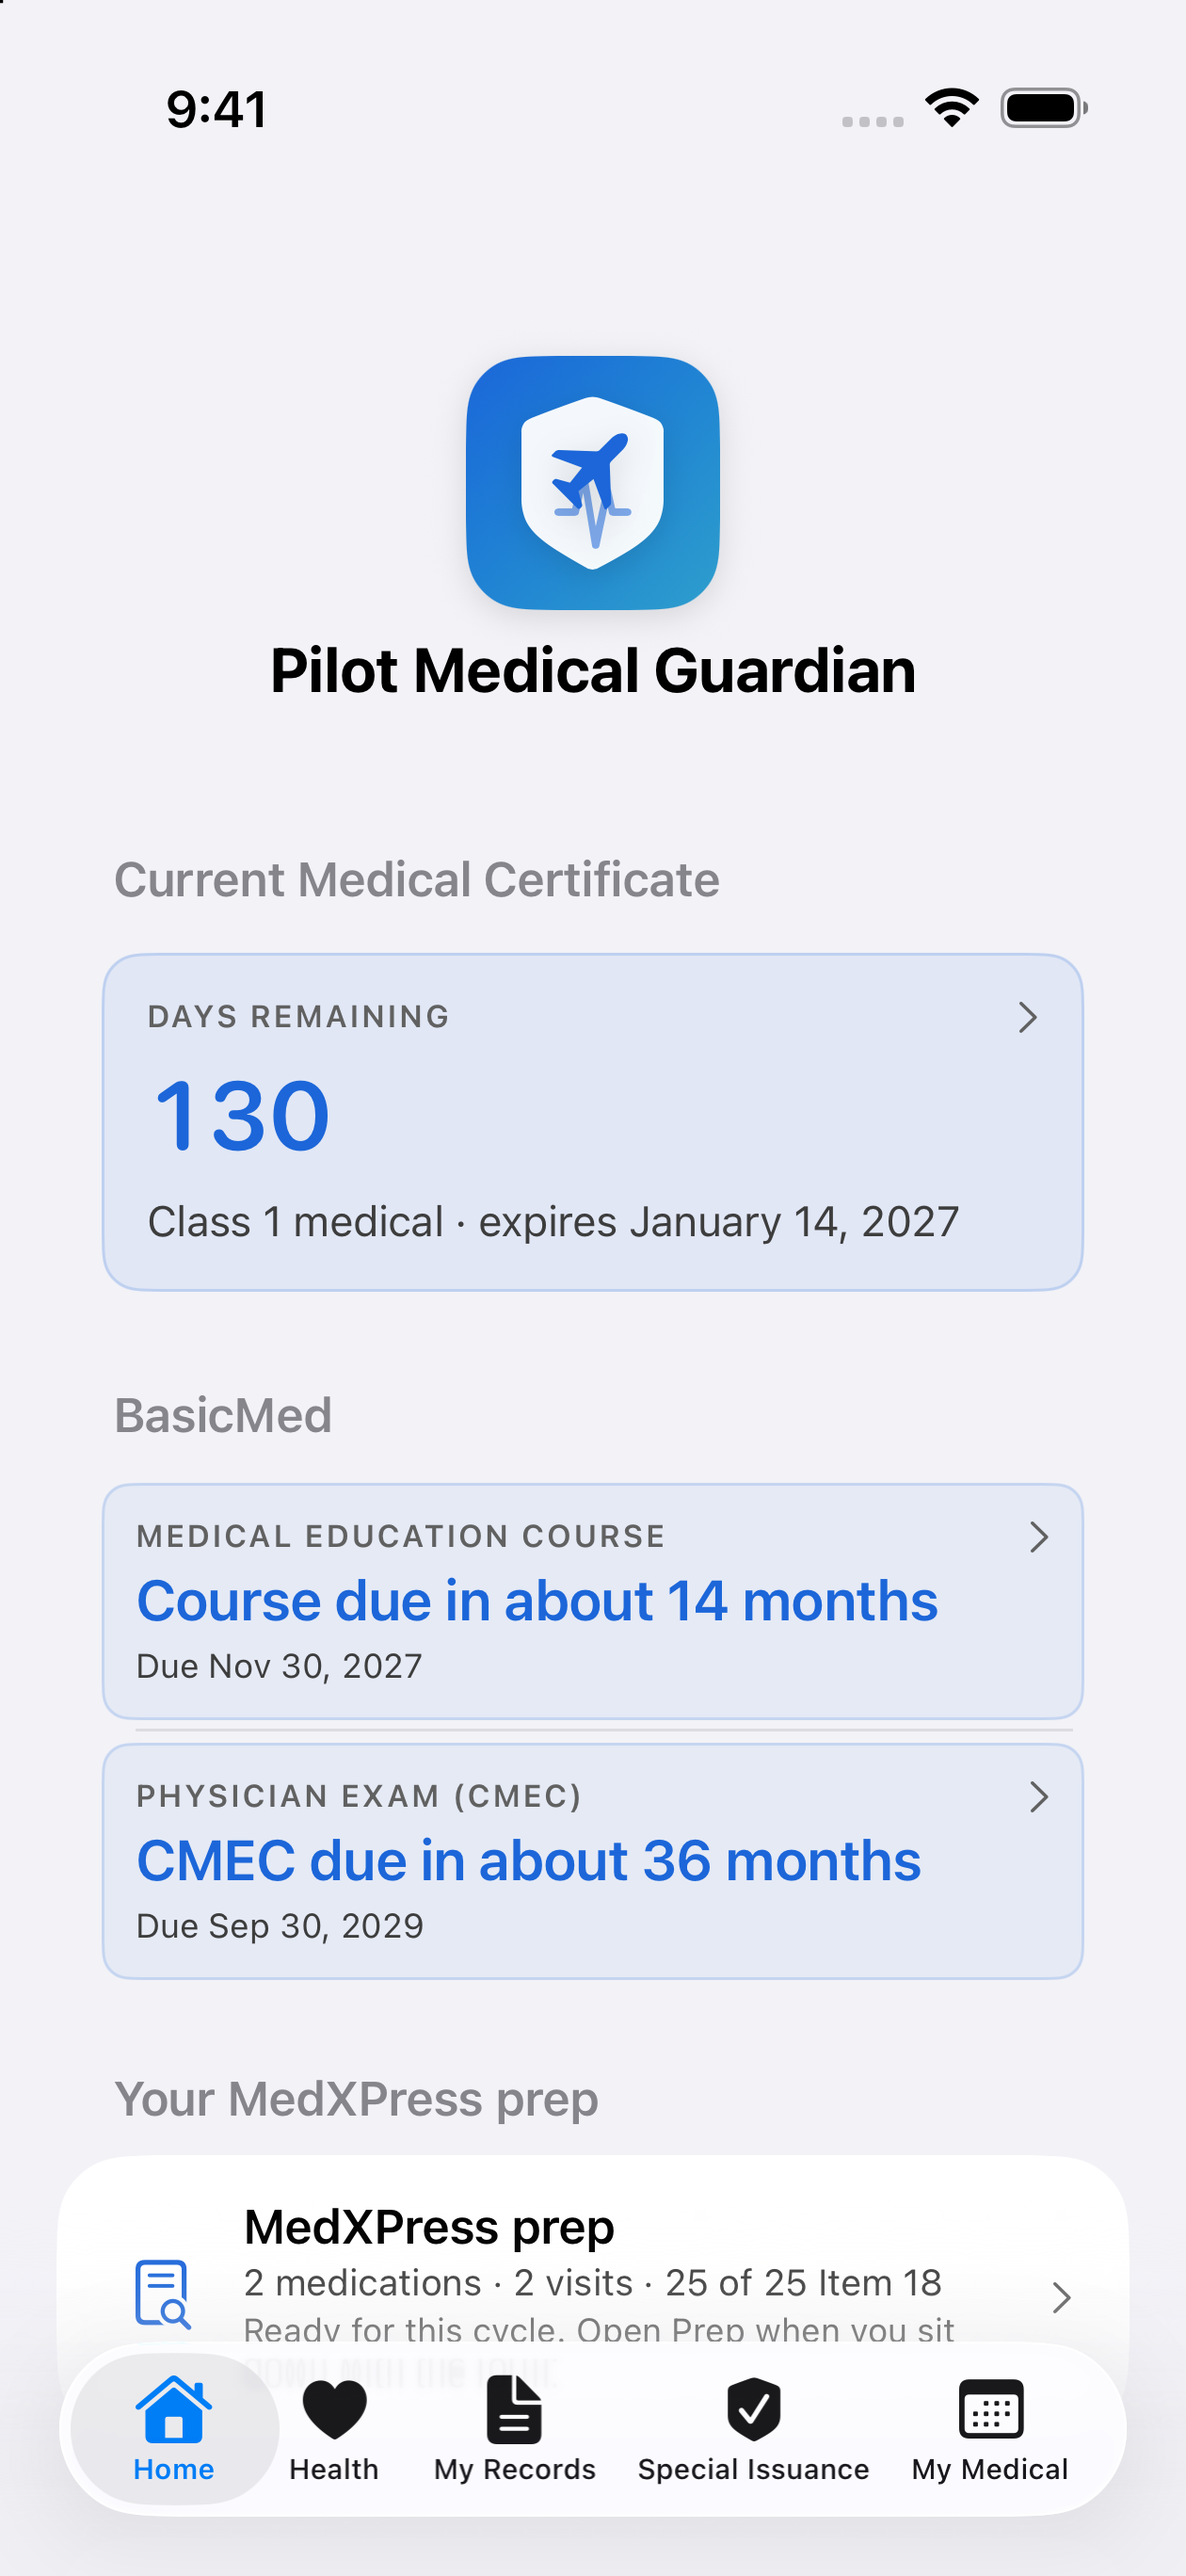
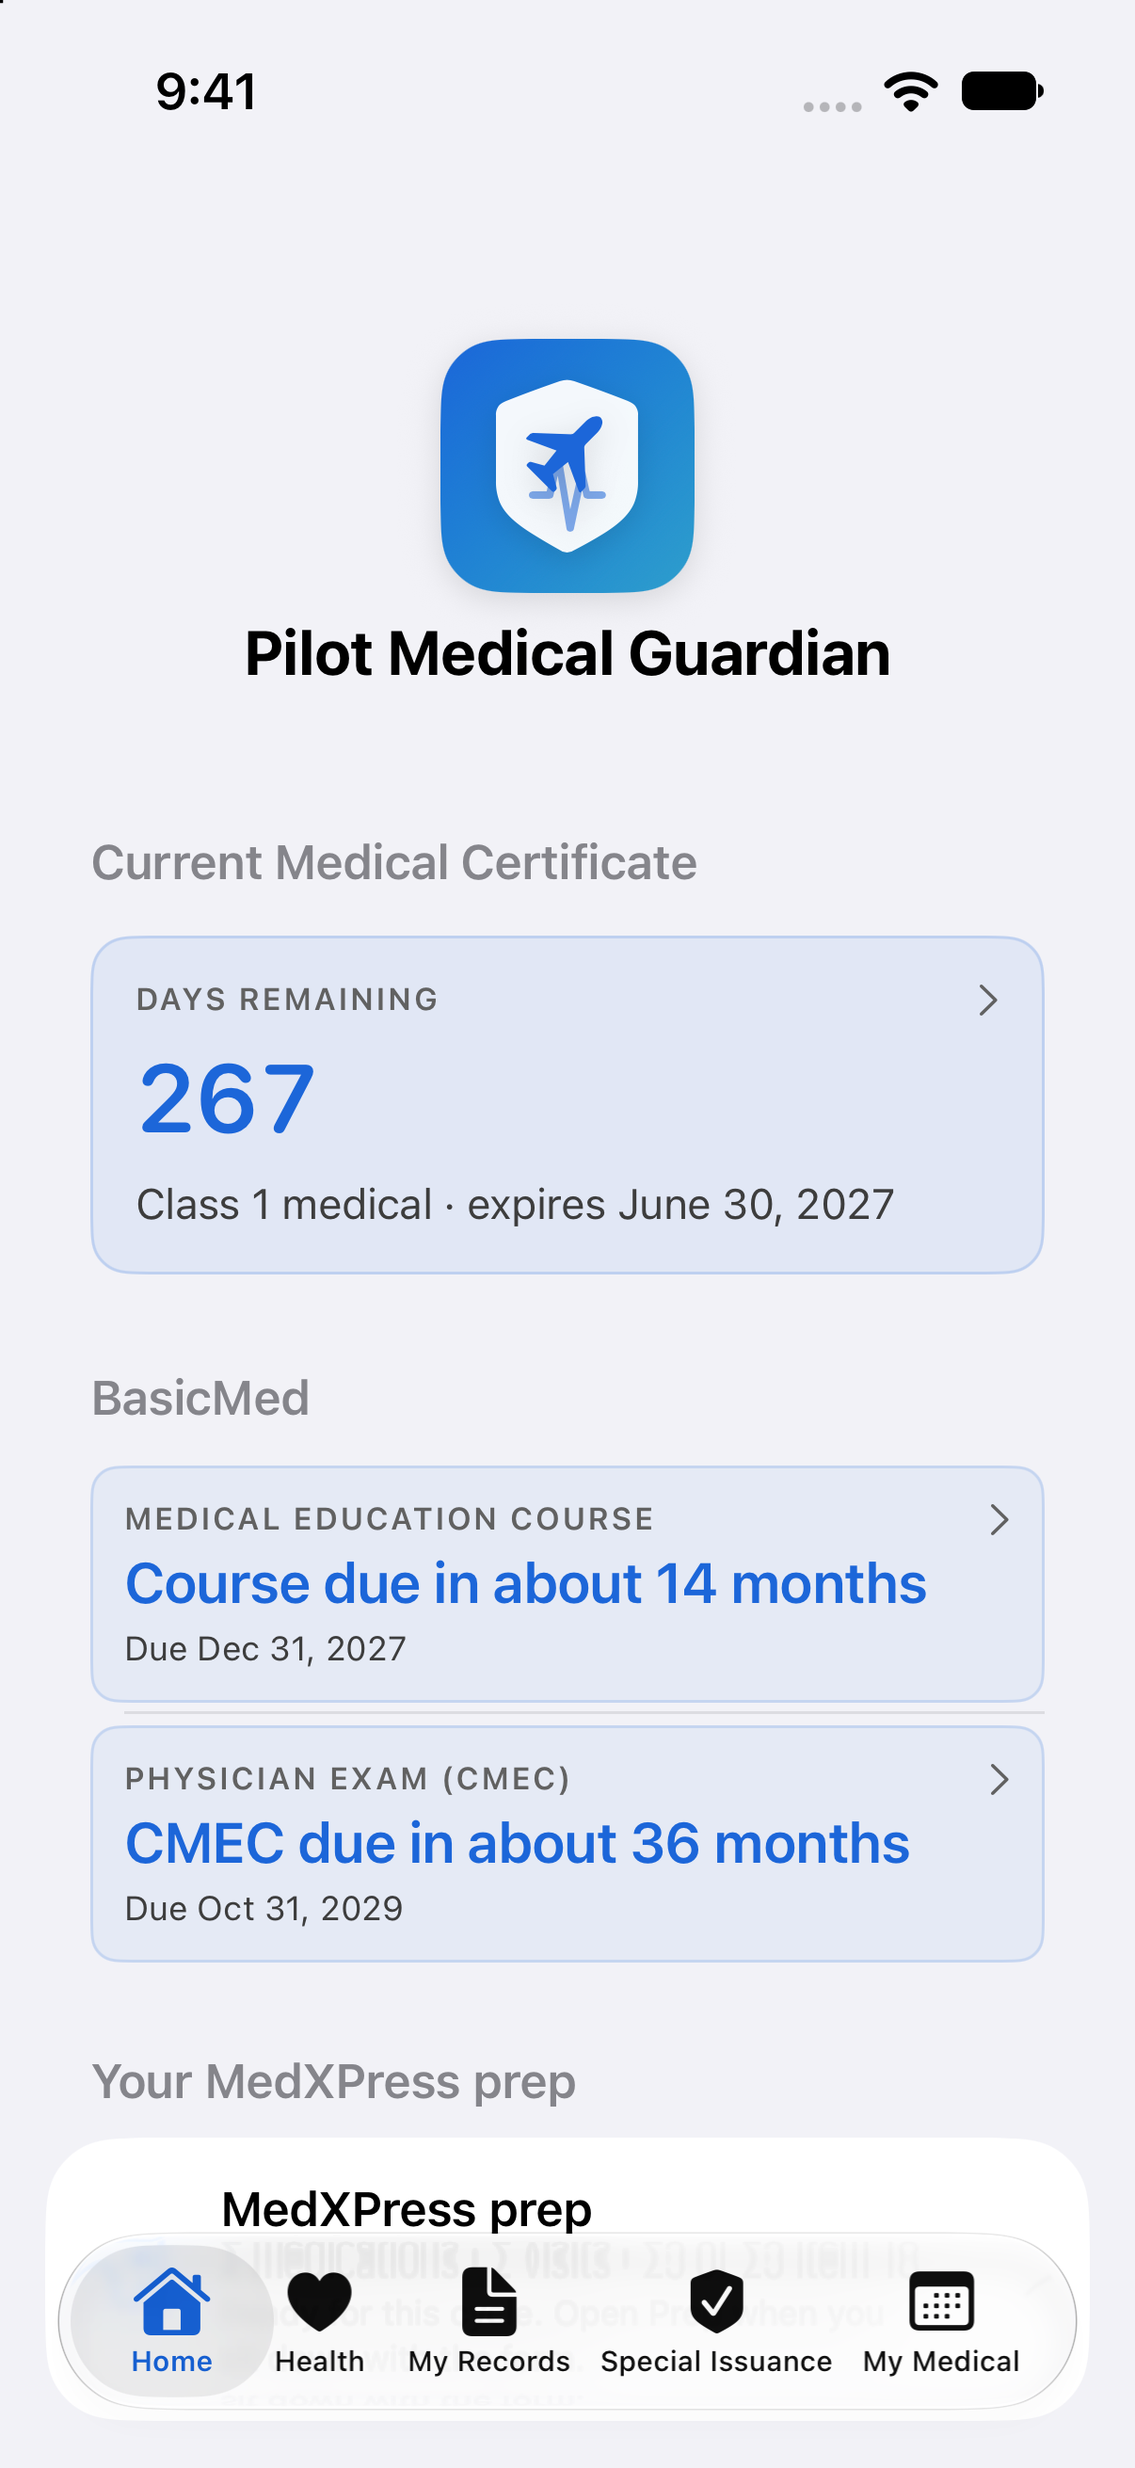
App Store header + search results asset (one universal image, Apple's 5244x2950 template, all content in its 1400x960 safe area): 267 days, Class 1 medical, expires Jun 30, 2027, one line about MedXPress; iPhone Home slot re-captured to match
Fresh iPhone 17 Pro capture 2026-10-06 with the demo certificate set to Jun 30, 2027 and the demo SI authorization moved past it (both local seeder edits, reverted). iPad and Mac Home slots still show 130 / Jan 14, 2027.

diff --git a/screenshots/asc/build-header-asset.py b/screenshots/asc/build-header-asset.py
@@ -1,0 +1,105 @@
+"""App Store product page header + search results asset (one universal image).
+
+Ryan 2026-10-06. One still on the app blue, the countdown as the picture, one marketing line.
+Canvas and safe area come from Apple's universal template
+(creative_assets-universal_asset_template-static.psd): 5244 x 2950, and the "Art Safe Area"
+layer is x 1922-3322, y 660-1620 (1400 x 960). Everything that has to be seen sits inside it;
+outside it is plain blue bleed that some placements show and some crop.
+
+Phone source: header/home-267-raw.png, a fresh iPhone 17 Pro capture (2026-10-06) with the demo
+certificate set to expire Jun 30, 2027 (267 days that day), the demo Special Issuance
+authorization moved past it (otherwise it caps the countdown and adds an SI line), and the
+pilot on the medical pathway only (no BasicMed cards). The seeder edits were local and reverted.
+The phone fades out under the MedXPress prep card so "What's next" (an SI item) never shows.
+
+Copy is exact and nothing else may be added: the number, "Days remaining", "Class 1 medical",
+"expires Jun 30, 2027", "MedXPress, filled from your own records." No price, URL, FAA approval
+or fit-to-fly wording, no second feature, no em dashes.
+"""
+from PIL import Image, ImageDraw
+import numpy as np, os
+
+
+BASE = os.path.expanduser("~/pilot-medical-guardian-content/screenshots/asc/header")
+SF = "/System/Library/Fonts/SFNS.ttf"
+W, H = 5244, 2950
+SX0, SY0, SX1, SY1 = 1922, 660, 3322, 1620          # Apple's art safe area
+BLUE = (0x1C, 0x66, 0xD9)
+WHITE = (255, 255, 255)
+
+
+def font(size, weight):
+    from PIL import ImageFont
+    f = ImageFont.truetype(SF, size)
+    vals = []
+    for a in f.get_variation_axes():
+        n = a["name"].decode() if isinstance(a["name"], bytes) else a["name"]
+        vals.append({"Weight": weight, "Optical Size": min(max(96, a["minimum"]), a["maximum"])}.get(n, a["default"]))
+    f.set_variation_by_axes(vals)
+    return f
+
+
+def phone(screen, scale):
+    """Frame a raw capture as an iPhone: rounded screen in a graphite bezel."""
+    sw, sh = int(screen.width * scale), int(screen.height * scale)
+    scr = screen.resize((sw, sh), Image.LANCZOS).convert("RGBA")
+    r_screen = int(165 * scale)                     # iPhone 17 Pro display corner, 55pt @3x
+    m = Image.new("L", (sw, sh), 0)
+    ImageDraw.Draw(m).rounded_rectangle([0, 0, sw - 1, sh - 1], radius=r_screen, fill=255)
+    scr.putalpha(m)
+    bz = max(10, int(42 * scale))                   # bezel width
+    ow, oh = sw + 2 * bz, sh + 2 * bz
+    body = Image.new("RGBA", (ow, oh), (0, 0, 0, 0))
+    d = ImageDraw.Draw(body)
+    d.rounded_rectangle([0, 0, ow - 1, oh - 1], radius=r_screen + bz, fill=(24, 26, 31, 255))
+    d.rounded_rectangle([3, 3, ow - 4, oh - 4], radius=r_screen + bz - 3, outline=(92, 98, 108, 255), width=3)
+    body.alpha_composite(scr, (bz, bz))
+    return body, bz
+
+
+def main():
+    raw = Image.open(os.path.join(BASE, "home-267-raw.png")).convert("RGB")
+    canvas = Image.new("RGB", (W, H), BLUE)
+
+    # ---- phone: screen top just inside the safe area; MedXPress card ends above the line ----
+    card_bottom_raw = 1846                           # bottom of the MedXPress prep card in the raw
+    screen_top, card_bottom_at = 700, 1430
+    scale = (card_bottom_at - screen_top) / card_bottom_raw
+    body, bz = phone(raw, scale)
+    px = SX1 - body.width - 40
+    py = screen_top - bz
+    # fade the phone into the blue just under the card so nothing below it can show
+    fade0, fade1 = card_bottom_at + 2 - py, card_bottom_at + 14 - py
+    a = np.array(body.getchannel("A"), dtype=np.float32)
+    ramp = np.ones(body.height, dtype=np.float32)
+    ramp[int(fade0):] = np.clip(1 - (np.arange(int(fade0), body.height) - fade0) / (fade1 - fade0), 0, 1)
+    body.putalpha(Image.fromarray((a * ramp[:, None]).astype("uint8")))
+    canvas.paste(body, (px, py), body)
+
+    # ---- type: the countdown is the picture ----
+    d = ImageDraw.Draw(canvas)
+    x = SX0 + 70
+    big = font(360, 700)
+    top = SY0 + 40
+    d.text((x - 12, top), "267", font=big, fill=WHITE)
+    y = top + big.getbbox("267")[3] + 30
+    for text, size, weight, gap in (("Days remaining", 76, 600, 28),
+                                    ("Class 1 medical", 60, 440, 14),
+                                    ("expires Jun 30, 2027", 60, 440, 0)):
+        f = font(size, weight)
+        d.text((x, y), text, font=f, fill=WHITE)
+        y += f.getbbox(text)[3] + gap
+
+    line = "MedXPress, filled from your own records."
+    lf = font(58, 600)
+    d.text((x, SY1 - 48 - lf.getbbox(line)[3]), line, font=lf, fill=WHITE)
+    assert d.textlength(line, font=lf) + x <= SX1, "line overruns the safe area"
+
+    out = os.path.join(BASE, "pmg-universal-5244x2950.png")
+    canvas.save(out, optimize=True)
+    print("wrote", out, canvas.size)
+    return canvas
+
+
+if __name__ == "__main__":
+    main()
